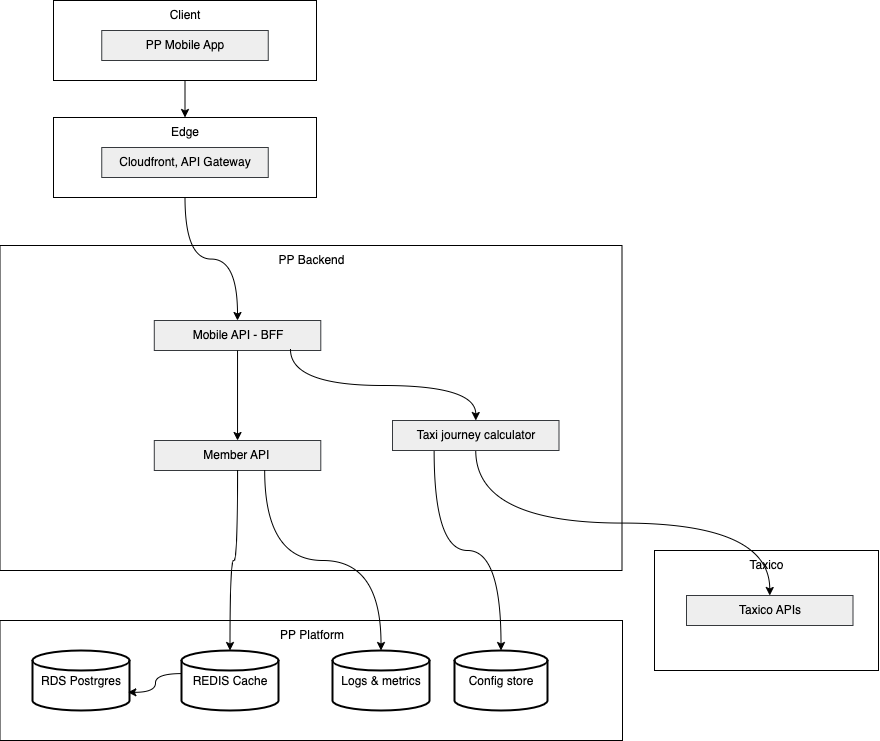
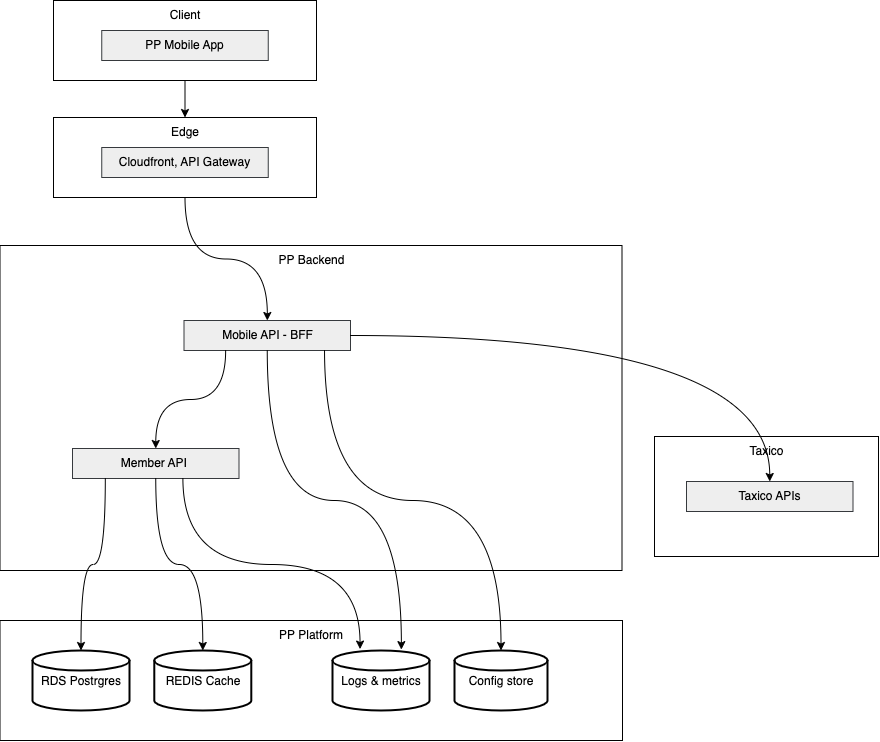
Updated c4 diagrams and readme

diff --git a/README.md b/README.md
@@ -1,10 +1,21 @@
-# Priority Pass × Taxico – Airport Journey Integration
+# PP Taxico Integration – Unified Airport Journey Service
 
 **Goal:** Help members get to the airport on time by showing **time-to-destination** and a **recommended departure (pickup) time** based on flight details, terminal drop-off, and configurable buffers. Deliver a clear architecture, prototype-ready APIs, and a safe data model.
 
 ---
 
 ## Architecture Overview
+
+### Architectural Principles
+- **Simplicity**: Start with the simplest model that meets requirements. Avoid over-engineering.
+- **Single front door**: A Backend-for-Frontend (BFF) encapsulates all partner calls, buffering logic, and error handling.
+- **Resilience**: Use caching, timeouts, and retries to handle transient failures gracefully.
+- **Data integrity**: Use a relational database (Postgres) for strong consistency and time math.
+- **Security first**: Follow best practices for auth, least privilege, and PCI compliance.
+- **Observability**: Correlated tracing, metrics, and structured logs for end-to-end visibility.
+- **Extensibility**: Design for future growth (more partners, ML models, offline support) without major rewrites.
+- **Cost-conscious**: Balance performance and reliability with cost-effective choices.
+
 
 ### Design decisions
 
@@ -13,7 +24,6 @@
 | **Mongo vs Postgres**                 | **Postgres** (optionally PostGIS later)                                       | Strong relational model (members ↔ flights ↔ terminals), FK integrity, time math with `INTERVAL`     | Reliable joins and constraints; straightforward analytics           | Add PostGIS for geo queries; materialized views for “next flight”                     |
 | **Integration model (sync vs async)** | Synchronous REST only (webhooks/events later if needed)                       | Simple, predictable request/response; fastest to implement ; easy auth                               | PP depends on Taxico latency/uptime; may need polling for ride state; no push updates | Add webhooks for ride/ETA updates; event-driven cache invalidation; lower latency & load |
 | **API orchestration**                 | **BFF orchestrates** all partner calls                                        | Centralizes buffer policy, member/terminal lookups, error handling                                        | Simpler mobile app; BFF manages timeouts/retries; consistent errors | Introduce lightweight workflow/state or sagas if flows grow (multi-step compensation) |
-| **Caching**                           | **In-BFF, short-TTL** (30–60s for compute; 5–15m for config/metadata)         | Cut P99 latency; shield brief hiccups without dangerous staleness                                    | Memory cache or simple Redis; minute-bucketed keys (coords+time)    | Move to Redis cluster; add SWR and explicit invalidation when events/webhooks arrive  |
 | **Authentication**                    | App→BFF: **OAuth2 Bearer JWT**; BFF→Taxico: **API key or client-credentials** | Standard patterns; easy rotation                                                                     | Clear scope boundaries; simple secret mgmt                          | Add **mTLS** and signed requests for higher assurance                                 |
 | **Deployment**                        | Containers on managed compute + RDS                                           | Balanced cost/simplicity; portable                                                                   | Quick infra spin-up, predictable scaling                            | Serverless or k8s; multi-region failover if SLAs demand                               |
 
@@ -29,8 +39,20 @@
 ![System Context](docs/diagrams/system_context.png)
 #### Container
 ![Container Diagram](docs/diagrams/container.png)
-#### Component
+#### Component and T-shirt sizing
 ![Component Diagram](docs/diagrams/component.png)
+
+| Module                                                          | T-shirt Size | Rationale                                                                                                                                      |
+|-----------------------------------------------------------------|--------------|------------------------------------------------------------------------------------------------------------------------------------------------|
+| **REST API**                                                    | **M**        | Needs routing, input validation, response formatting, error model. Standard framework scaffolding but non-trivial.                             |
+| **Auth & Policy (JWT verify, scopes, rate limit)**              | **M**        | Requires JWT validation, claims parsing, rate limiting, integration with config/secrets. Complexity grows if multi-tenant.                     |
+| **BFF API route handlers & composition**                        | **L**        | Central orchestration layer: composes calls to Member API + Taxico API, applies buffers, error handling, caching. Most custom logic lives here. |
+| **Internal API client partner adapter (PP MemberBookings API)** | **S**        | Straightforward client to an internal API with known schema and low variability.                                                               |
+| **External API client partner adapter (Taxico APIs)**           | **M**        | External dependency; must handle retries, timeouts, error mapping, schema drift. Higher resilience requirements.                               |
+| **Taxi journey calculator**                                     | **M**        | Lightweight logic (buffer application, time arithmetic). Grows only if predictive models added.                                                |
+| **Config Manager & secrets**                                    | **S**        | Uses cloud secrets manager + config store. Mostly wiring and secure access.                                                                    |
+| **Log handlers**                                                | **S**        | Standardized logging with request correlation. Slightly more if structured logs and masking required.                                          |
+
 
 ### Data model
 ![Data Model](docs/diagrams/data_model.png)
@@ -53,15 +75,13 @@
 - **PP BFF (Backend-for-Frontend)**
     - Public surface consumed by the PP app.
     - Endpoints:
-        - `GET /recommendedDepartureTime` → calls PP Member API for member/terminal context, calls Taxico `/recommendedDepartureTime`, **adds PP buffer**, returns `departureTime`.
-        - `GET /timeToDestination` → proxies to Taxico `/timeToDestination` (echoes buffer-inclusive or input time per client choice).
-        - `GET /flightBookings` → **proxy** to PP Member API `/flightBookings/member`.
-        - `GET /rideBookings` → **proxy** to Taxico `/rideBookings`.
+        - `GET /bookingsList` → **proxy** to PP Member API `/flightBookings`.
+        - `GET /rideDetails` → calls PP Member API for member/terminal context, calls Taxico `/recommendedDepartureTime`, **adds PP buffer**, returns `departureTime`.
         - `POST /bookRide` → **proxy** to Taxico `/bookRide`.
 - **PP Member API**
     - Member-scoped data (no business logic leakage).
     - Endpoints:
-        - `GET /flightBookings/member?memberId=...`
+        - `GET /flightBookings?memberId=...`
         - `GET /flightBookings/taxiCoClient?taxiCoCustomerId=...` (partner pull, row-level guarded).
 - **Taxico API** (partner)
     - Journey math & ride ops owned by the taxi provider.
@@ -72,7 +92,7 @@
 
 ### Request Flow (happy path)
 
-1. **PP App** calls **PP BFF** `/recommendedDepartureTime` with `memberId`, `terminalId`, and start/destination coords + `arrivalTime`.
+1. **PP App** calls **PP BFF** `/rideDetails` with `memberId`, `terminalId`, and start/destination coords + `arrivalTime`.
 2. **PP BFF** reads **buffer** and validates `terminalId` (PP Member API or DB).
 3. **PP BFF** calls **Taxico** `/recommendedDepartureTime` to get **raw pickup**.
 4. **PP BFF** **applies PP buffer** (business-configurable) and returns **buffer-inclusive `departureTime`**.
@@ -104,55 +124,13 @@
 
 ## Omissions & Trade-offs
 
-- **In-app ride booking UX**:
-    - *Skipped*: Full embedded checkout and driver tracking.
-    - *Why*: Keeps PCI scope out; reduces integration risk in MVP.
-    - *Later*: Deep link return + webhook-based status cards.
-- **Rule-based timing vs ML**:
-    - *Skipped*: Predictive models for security queues and traffic.
-    - *Why*: 2–3 hour constraint; ML needs data.
-    - *Later*: Learn per airport/terminal; confidence scores; weather/events features.
-- **Single taxi partner**:
-    - *Skipped*: Multi-partner routing/aggregation.
-    - *Why*: Ship one integration (Taxico) first.
-    - *Later*: Abstract partner client behind interface; add provider routing.
-- **Partial offline support**:
-    - *Skipped*: Robust offline cache.
-    - *Why*: Journey timing relies on live data.
-    - *Later*: Cache last known ETAs and conservative fallbacks.
-- **Strict DB constraints beyond PK/FK**:
-    - *Skipped*: Uniqueness (e.g., `(airport_id, code)`), check constraints, generated columns.
-    - *Why*: Keep DDL thin for assessment.
-    - *Later*: Add uniqueness, partial indexes, and materialized views for “next flight”.
+| Item                                   | Decision  | Why / Shortcut                                 | Later / Fix                                                                       |
+|----------------------------------------|-----------|------------------------------------------------|-----------------------------------------------------------------------------------|
+| Partial offline support                | Skipped   | Journey timing relies on live data.            | Cache last known ETAs and conservative fallbacks.                                 |
+| Buffers applied in BFF                 | Shortcut  | BFF adds a single `config.buffer_time_transit`. | Per-airport/terminal buffers; member-level preference; A/B testing.               |
+| Direct latitude/longitude usage        | Shortcut  | Store drop-off as numeric lat/lon.             | Enable PostGIS and index on `GEOGRAPHY(Point)`; add proximity and geofencing.     |
+| No webhook inbox                       | Shortcut  | Poll Taxico for ride bookings.                 | Signed webhooks (`BookingUpdated`, `ETAChanged`), idempotency, dead-letter queue. |
+| No rate limiting/backoff policy in spec | Shortcut  | Omitted for brevity.                           | Per-route rate limits; 429 handling with `Retry-After`; exponential backoff.      |
+| Basic error model                      | Shortcut  | Minimal `400/401/403/404/422/500`.             | Typed errors with codes; client guidance; SLO-driven retries.                     |
 
----
 
-## Shortcuts & How We’d Address Them
-
-- **Buffers applied in BFF**
-    - *Shortcut*: BFF adds a single `config.buffer_time_transit`.
-    - *Fix*: Per-airport/terminal buffers; member-level preference; A/B testing.
-- **Direct latitude/longitude usage**
-    - *Shortcut*: Store drop-off as numeric lat/lon.
-    - *Fix*: Enable **PostGIS** and index on `GEOGRAPHY(Point)`; add proximity and geofencing.
-- **Simplified auth for partner pull**
-    - *Shortcut*: API key example for Taxico.
-    - *Fix*: OAuth2 client-credentials + mTLS, partner-scoped claims, fine-grained scopes (`bookings:read`).
-- **No webhook inbox**
-    - *Shortcut*: Poll Taxico for ride bookings.
-    - *Fix*: Signed webhooks (`BookingUpdated`, `ETAChanged`), idempotency, dead-letter queue.
-- **No rate limiting/backoff policy in spec**
-    - *Shortcut*: Omitted for brevity.
-    - *Fix*: Per-route rate limits; 429 handling with `Retry-After`; exponential backoff.
-- **Basic error model**
-    - *Shortcut*: Minimal `400/401/403/404/422/500`.
-    - *Fix*: Typed errors with codes; client guidance; SLO-driven retries.
-
----
-
-### TL;DR
-
-- **BFF as the single front door**: encapsulates buffers, proxies specialized domains.
-- **Postgres for integrity & time math**; optional PostGIS later.
-- **PCI-safe MVP**: payments live in the taxi partner domain.
-- **Clear path to scale**: partner abstraction, events/webhooks, smarter recommendations.
